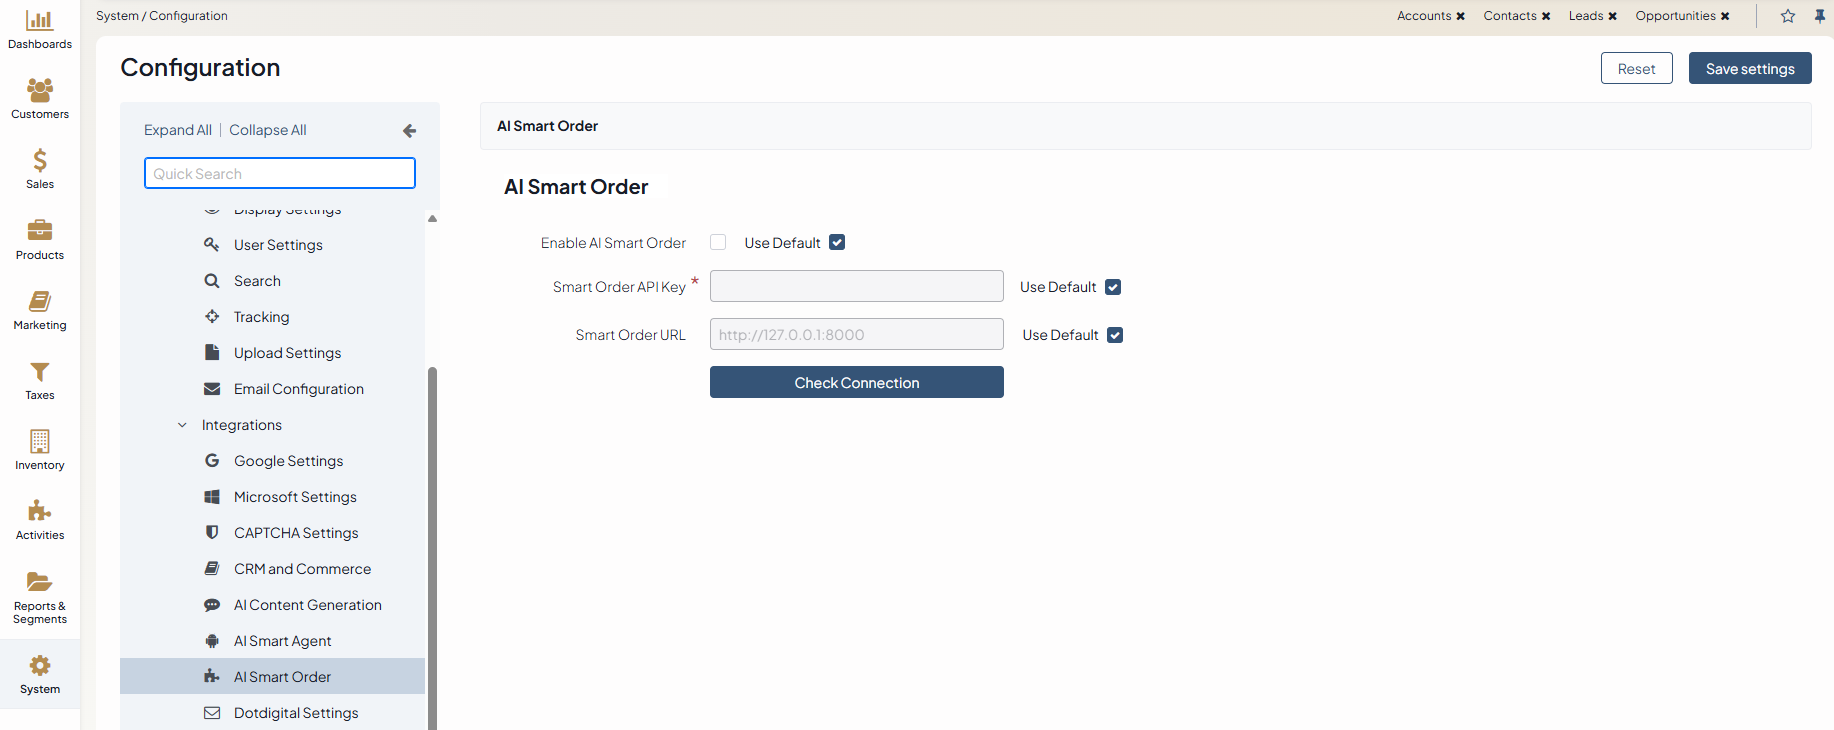
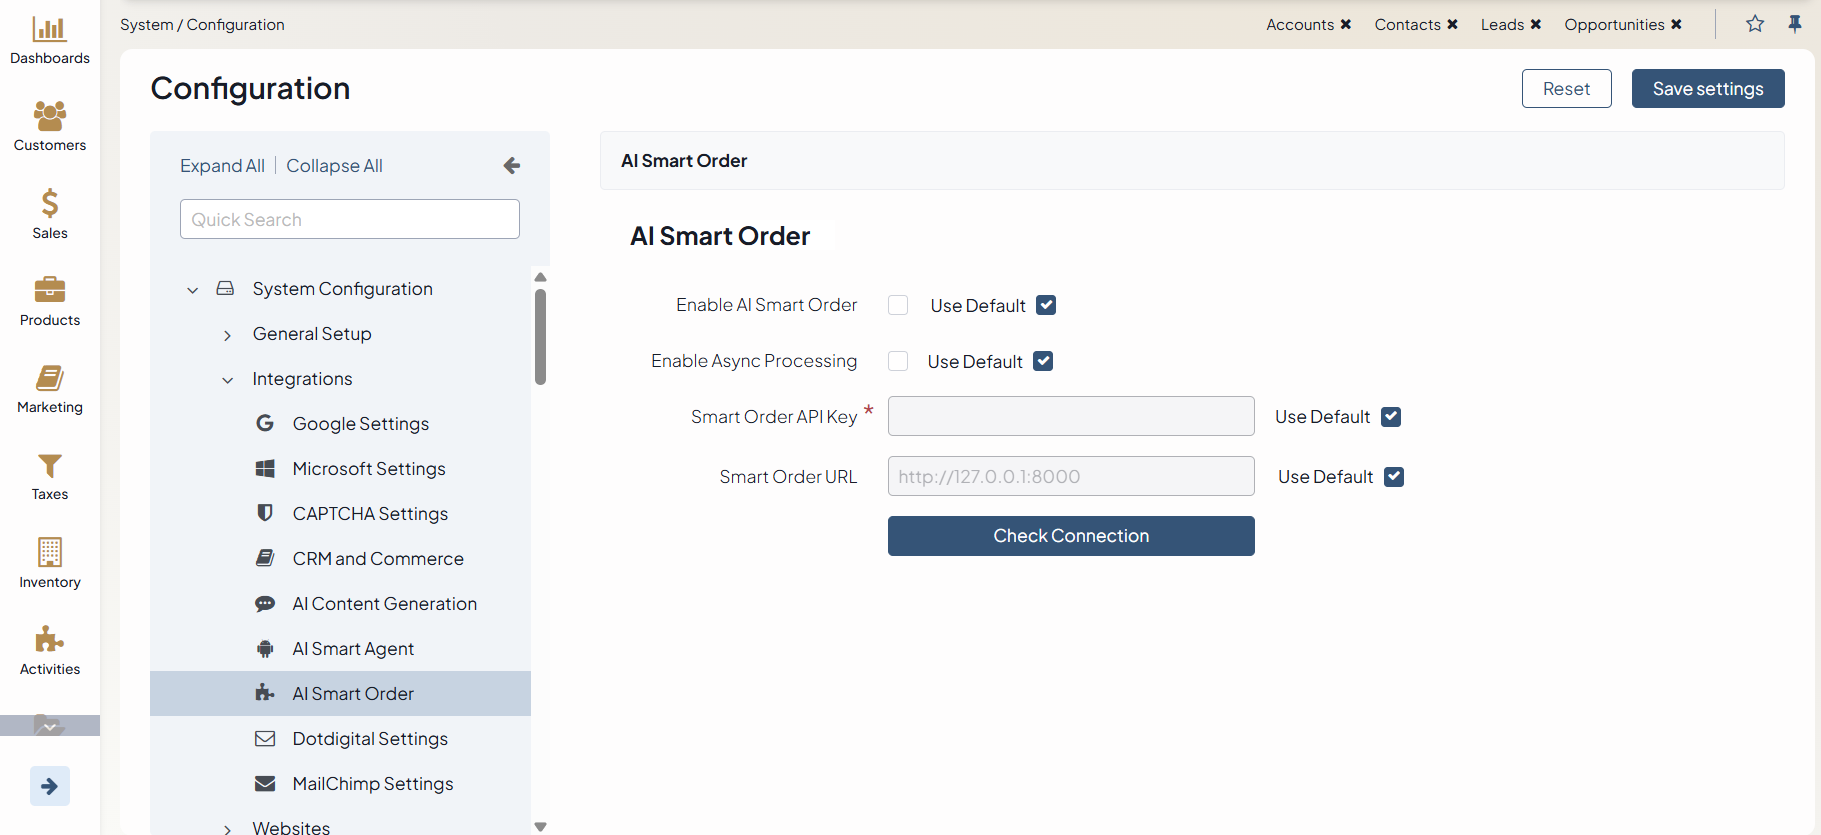
DOC-2450: Document Smart Order Async Processing (m) (#43468)
* DOC-2450: Document Smart Order Async Processing

diff --git a/user/back-office/dashboards/widgets/ai-smart-order.rst b/user/back-office/dashboards/widgets/ai-smart-order.rst
@@ -17,6 +17,12 @@ Once the widget is added to the dashboard, you can upload a file of an image of 
 .. image:: /user/img/concept-guides/ai/ai-smart-order-flow.png
    :alt: Illustration of the dashboard with a Smart Order widget
 
+.. note::
+    If :ref:`Async Processing <admin-configuration-orders-ai-smart-order-settings>` is enabled, the uploaded purchase order is processed in the background via the message queue. After uploading a file, you can click the provided link to check the job status on the **System > Jobs** page, allowing you to monitor progress and review any issues once processing completes.
+
+     .. image:: /user/img/concept-guides/ai/async.png
+        :scale: 50%
+
 Any draft created using the AI smart order feature includes a preview of the original uploaded document. You can turn this preview on or off using the Display/Hide Preview button. When the preview is displayed, you can zoom in and out using the controls above the image and move it horizontally by holding the Ctrl (or Command) key while dragging it.
 
 Once you manually amend the fields that require your attention, click the green checkbox near the field to confirm your changes, and then **Save and Close** to close the order edit page. The order will now be available under **Sales > Orders** in the main menu.

diff --git a/user/back-office/system/configuration/system/integrations/global-ai-smart-order.rst b/user/back-office/system/configuration/system/integrations/global-ai-smart-order.rst
@@ -20,9 +20,10 @@ To enable this feature globally:
 .. note:: For faster navigation between the configuration menu sections, use :ref:`Quick Search <user-guide--system-configuration--quick-search>`.
 
 3. In the **AI Smart Order** section, clear the **Use Default** checkbox and select the checkbox next to *Enable AI Smart Order* to enable the feature.
-4. Information for the **Smart Order API Key** and **Smart Order URL** fields is provided by the Oro Team upon request during the setup of the Smart Order microservice.
+4. Select the **Enable Async Processing** checkbox to process purchase orders asynchronously via the message queue, improving performance and accuracy for large or complex orders.
+5. Information for the **Smart Order API Key** and **Smart Order URL** fields is provided by the Oro Team upon request during the setup of the Smart Order microservice.
 
-5. Click **Save Settings**.
+6. Click **Save Settings**.
 
 .. hint:: You can also enable Smart Order :ref:`per organization <organization-ai-smart-order-settings>`.
 
